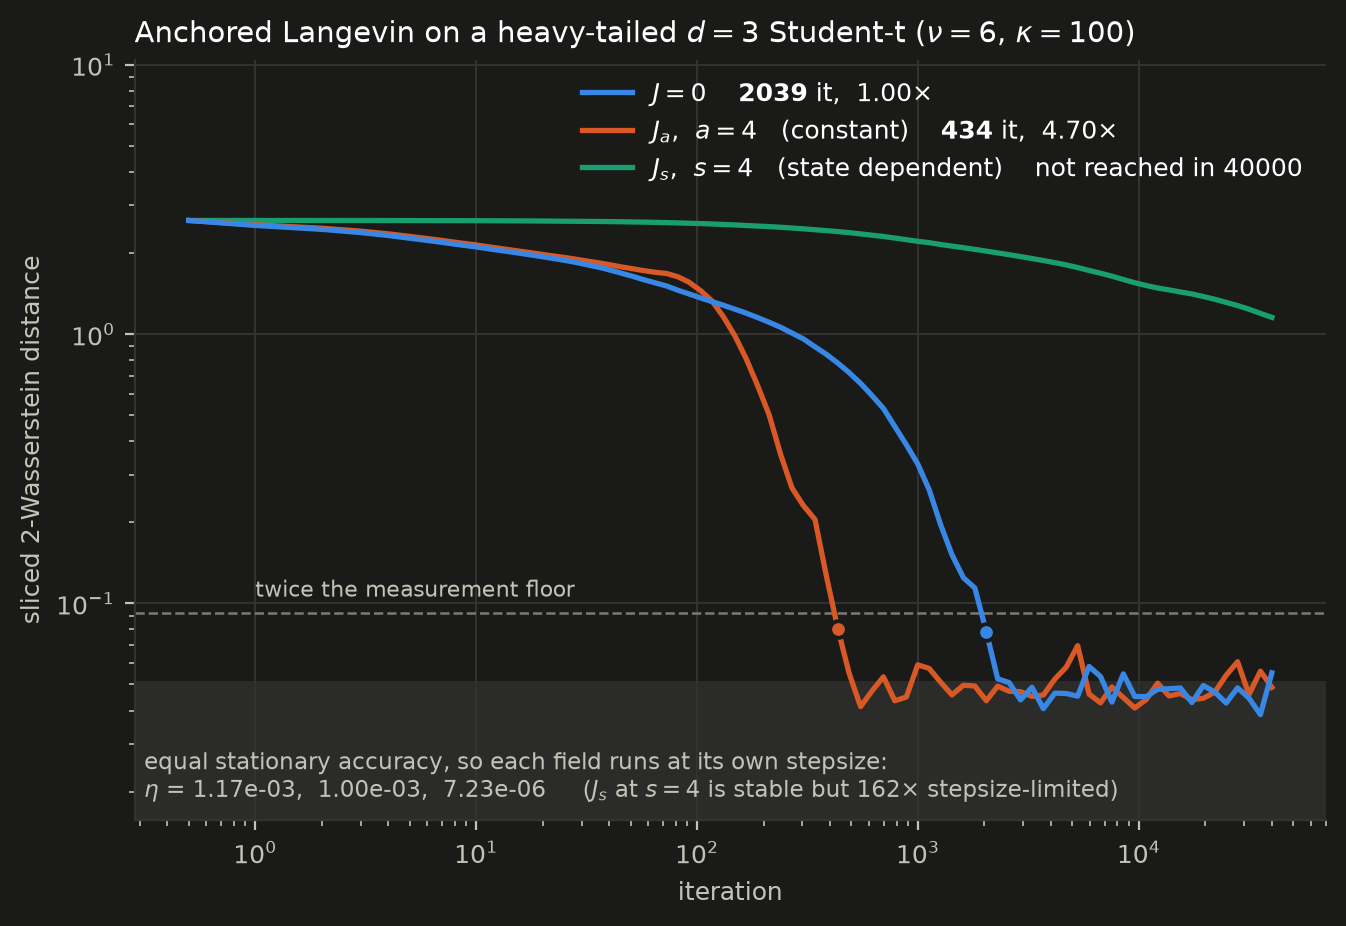
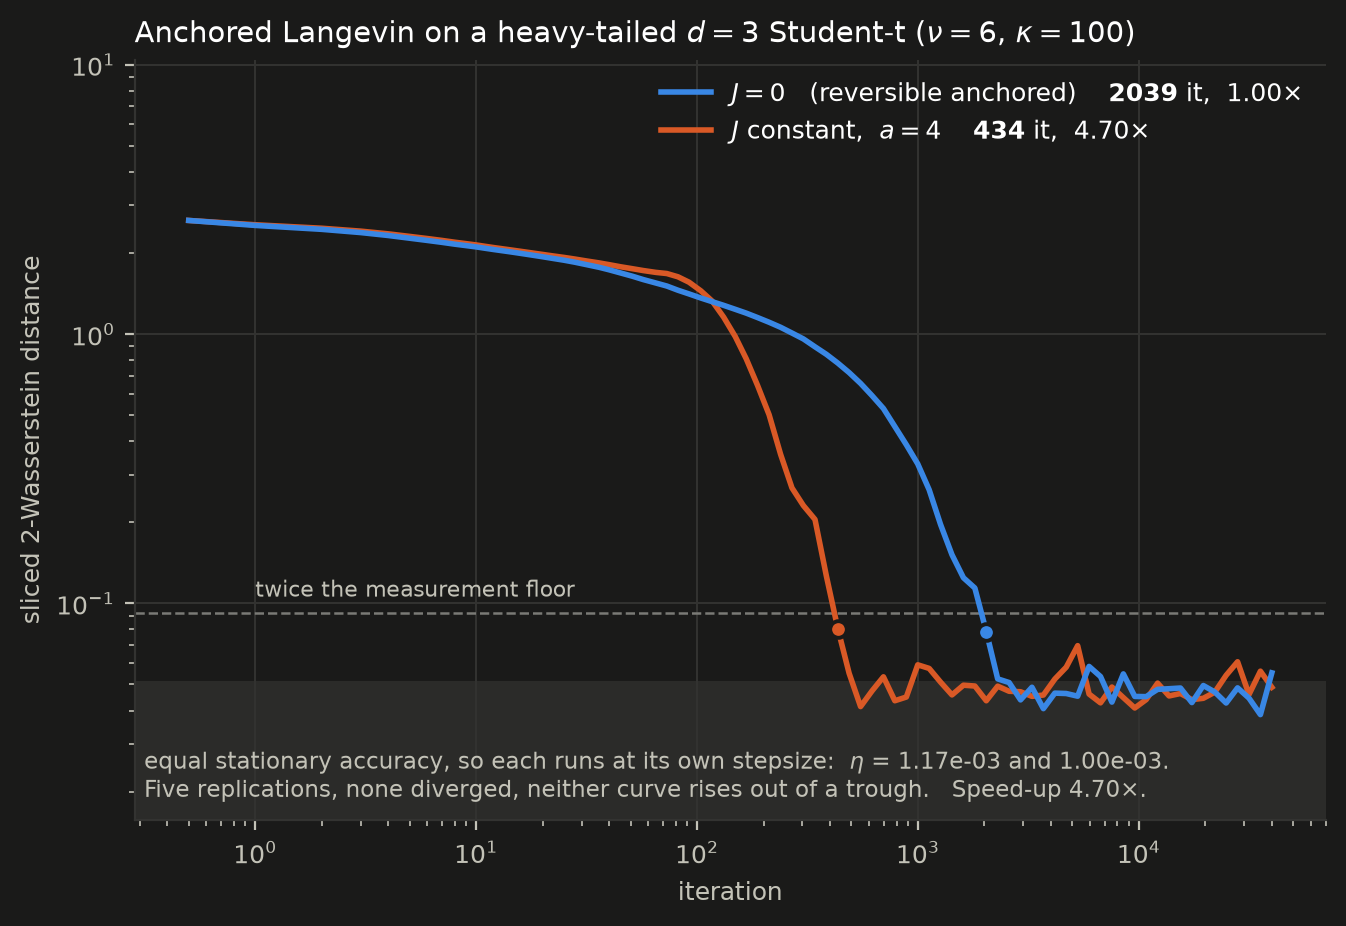
Figure 12: drop the J_s curve, keep J = 0 and the constant field
Two curves now, selected by FIG12_KEYS at the top of the function so the choice
is one line to change. The cross-product row is still measured and still in
exp12_three_fields.json; it is only not plotted.

J = 0        2039 iterations   1.00x
J constant   434 iterations    4.70x   (a = 4)

Claude-Session: https://claude.ai/code/session_01EfJ8Rz9vQWSBEejxWgWdFD

diff --git a/experiments/make_figures.py b/experiments/make_figures.py
@@ -485,21 +485,27 @@ def fig_curl_potentials(mode):
 # ------------------------------------------------------------------ fig 12
 
 
+# which curves fig 12 shows, in order.  The cross-product row is still measured
+# and still in the data file; it is simply not plotted here.
+FIG12_KEYS = ("zero", "const")
+
+
 def fig_three_fields(mode):
-    """d = 3, three fields: J = 0, a constant J_a, and the cross-product J_s."""
+    """d = 3: the reversible anchored sampler against a constant skew field."""
     path = os.path.join(DATA, "exp12_three_fields.json")
     if not os.path.exists(path):
         print("  skip: exp12_three_fields.json not found")
         return
     b = runner.load_json(path)
     floor = b["floor"]
-    pretty = {"zero": "$J = 0$",
-              "const": "$J_a$,  $a = 4$   (constant)",
+    pretty = {"zero": "$J = 0$   (reversible anchored)",
+              "const": "$J$ constant,  $a = 4$",
               "cross": "$J_s$,  $s = 4$   (state dependent)"}
     p = plotting.use_style(mode)
     fig, ax = plt.subplots(figsize=(6.8, 4.7))
-    base = next(r["iters"] for r in b["rows"] if r["key"] == "zero")
-    for i, r in enumerate(b["rows"]):
+    rows = [r for k in FIG12_KEYS for r in b["rows"] if r["key"] == k]
+    base = next(r["iters"] for r in rows if r["key"] == "zero")
+    for i, r in enumerate(rows):
         colour = p["categorical"][i % len(p["categorical"])]
         it = np.asarray(r["rec"], dtype=float)
         it[0] = max(it[1] * 0.5, 0.5)
@@ -509,7 +515,7 @@ def fig_three_fields(mode):
             lab += f"    $\\bf{{{r['iters']:d}}}$ it,  {base / r['iters']:.2f}$\\times$"
         else:
             lab += f"    not reached in {b['steps']:d}"
-        ax.plot(it, w, color=colour, lw=1.9, label=lab, zorder=3 - 0.1 * i)
+        ax.plot(it, w, color=colour, lw=2.0, label=lab, zorder=3 - 0.1 * i)
         if r["iters"] > 0:
             j = int(np.argmin(np.abs(it - r["iters"])))
             ax.plot([it[j]], [w[j]], "o", color=colour, ms=6,
@@ -528,12 +534,13 @@ def fig_three_fields(mode):
     ax.set_ylabel("sliced 2-Wasserstein distance")
     ax.set_title("Anchored Langevin on a heavy-tailed $d=3$ Student-t "
                  "($\\nu=6$, $\\kappa=100$)", loc="left")
-    etas = {r["key"]: r["eta"] for r in b["rows"]}
+    etas = {r["key"]: r["eta"] for r in rows}
+    sp = base / next(r["iters"] for r in rows if r["key"] == "const")
     ax.text(0.008, 0.02,
-            "equal stationary accuracy, so each field runs at its own stepsize:\n"
-            f"$\\eta$ = {etas['zero']:.2e},  {etas['const']:.2e},  {etas['cross']:.2e}"
-            f"     ($J_s$ at $s=4$ is stable but "
-            f"{etas['zero'] / etas['cross']:.0f}$\\times$ stepsize-limited)",
+            "equal stationary accuracy, so each runs at its own stepsize:  "
+            f"$\\eta$ = {etas['zero']:.2e} and {etas['const']:.2e}.\n"
+            f"Five replications, none diverged, neither curve rises out of a "
+            f"trough.   Speed-up {sp:.2f}$\\times$.",
             transform=ax.transAxes, fontsize=8.3, va="bottom", ha="left",
             color=p["text_secondary"])
     ax.legend(loc="upper right", fontsize=9, framealpha=0.93)
